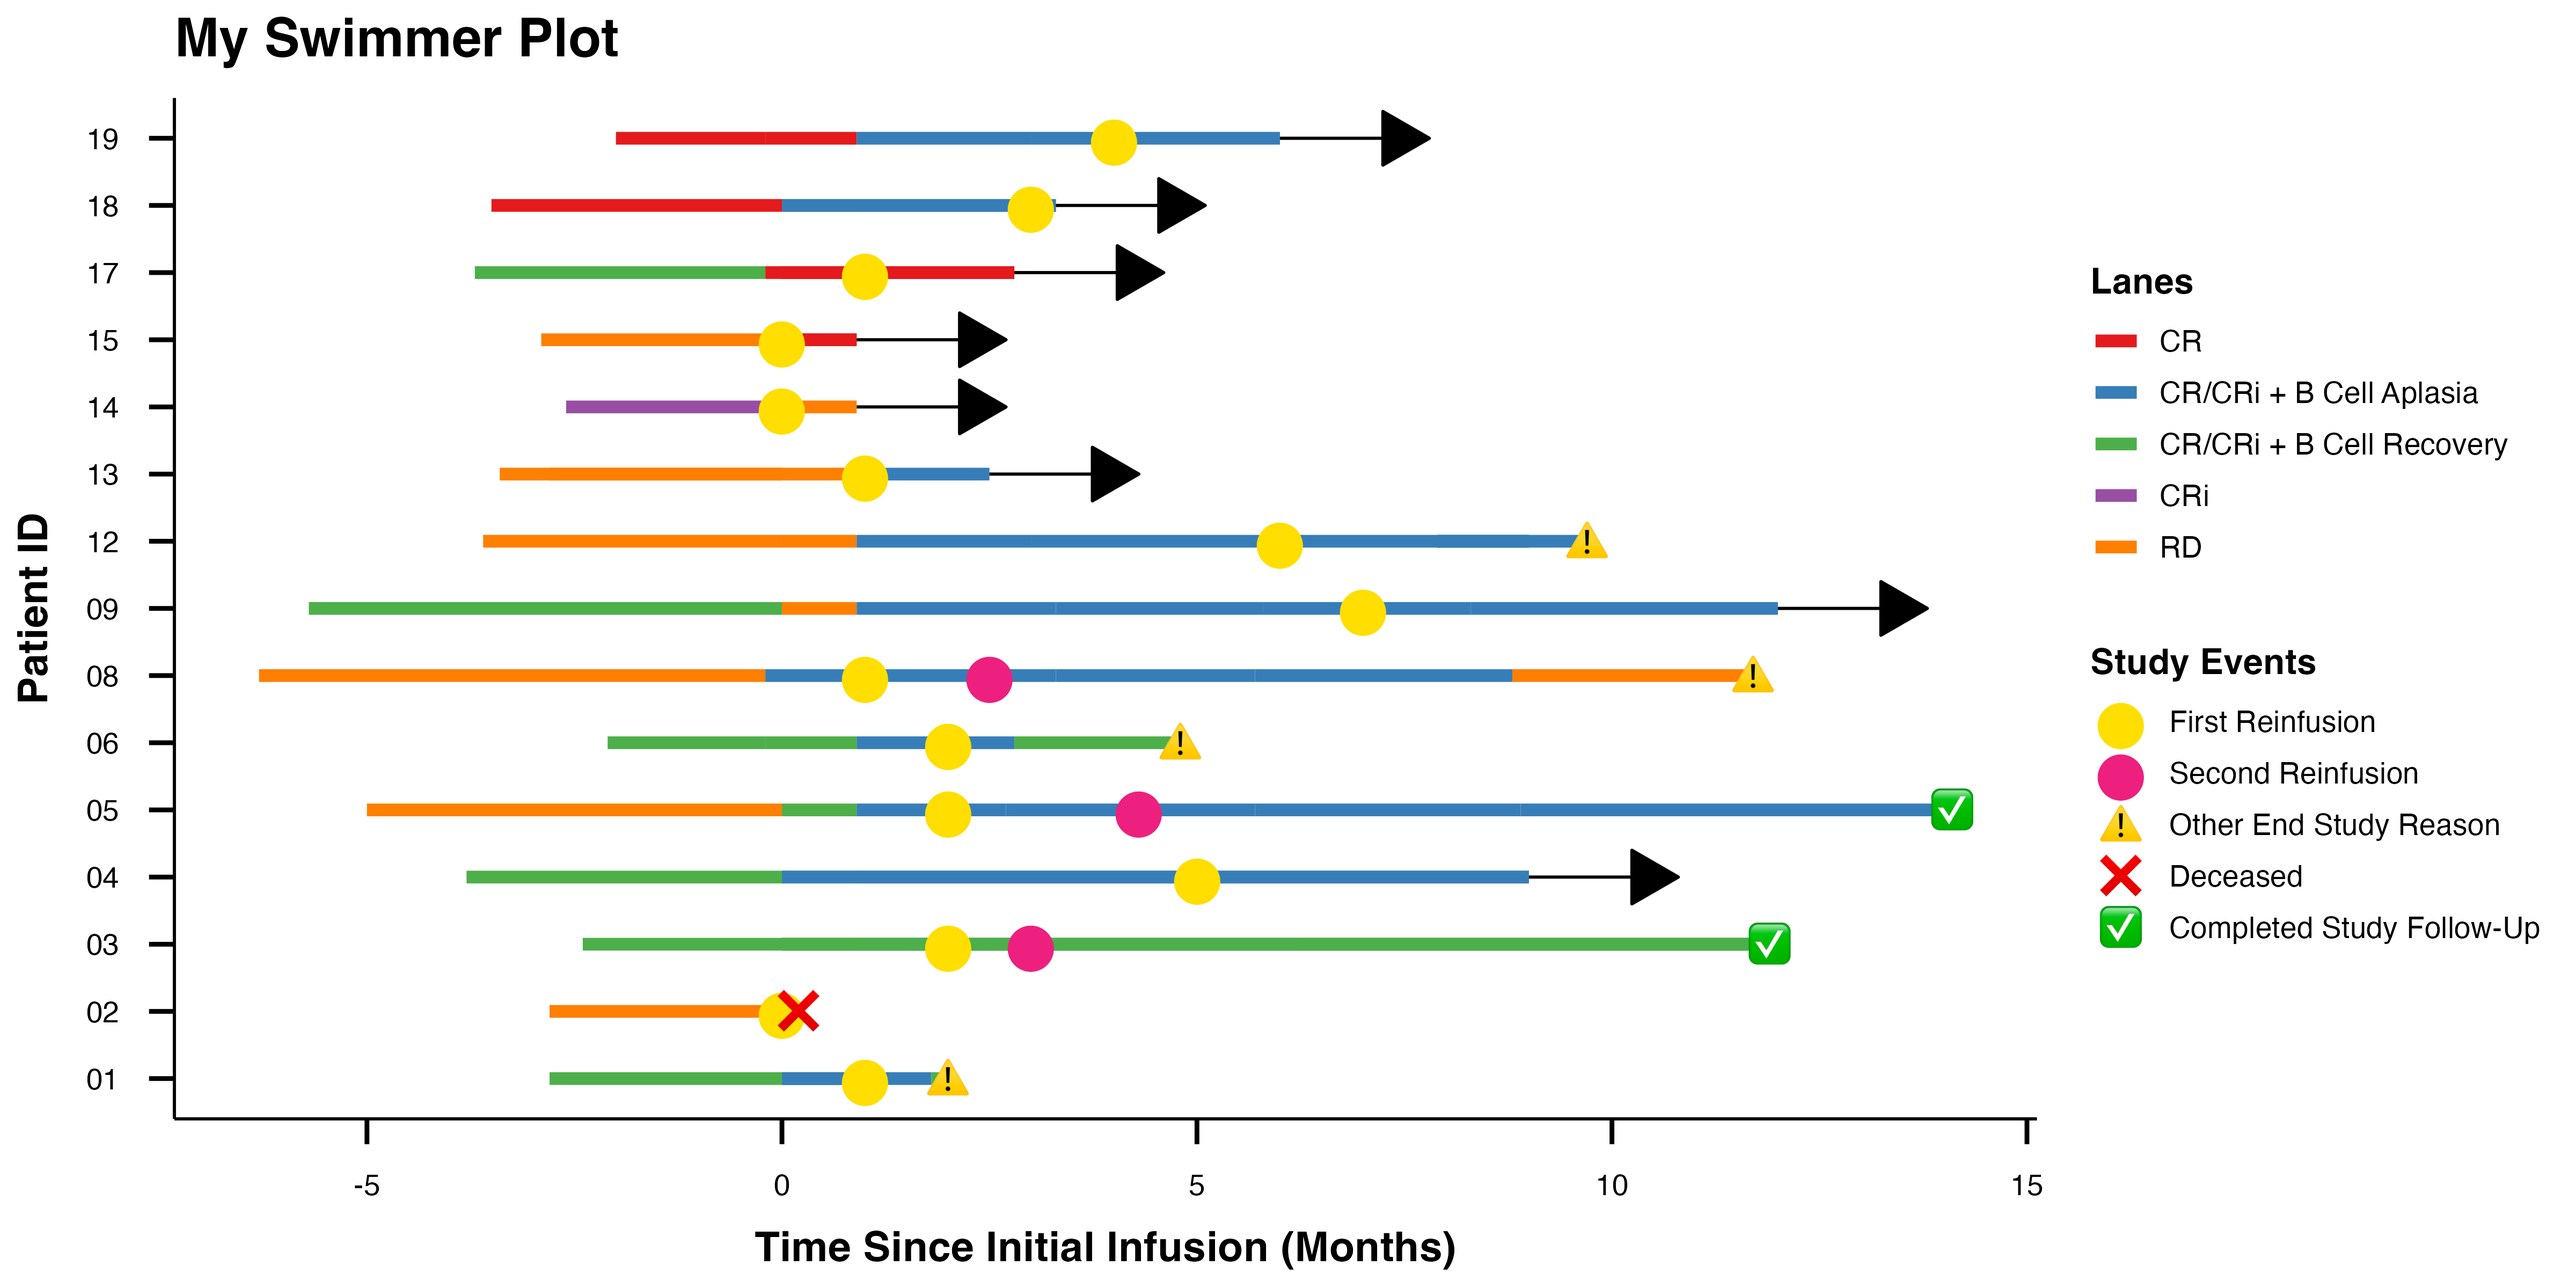
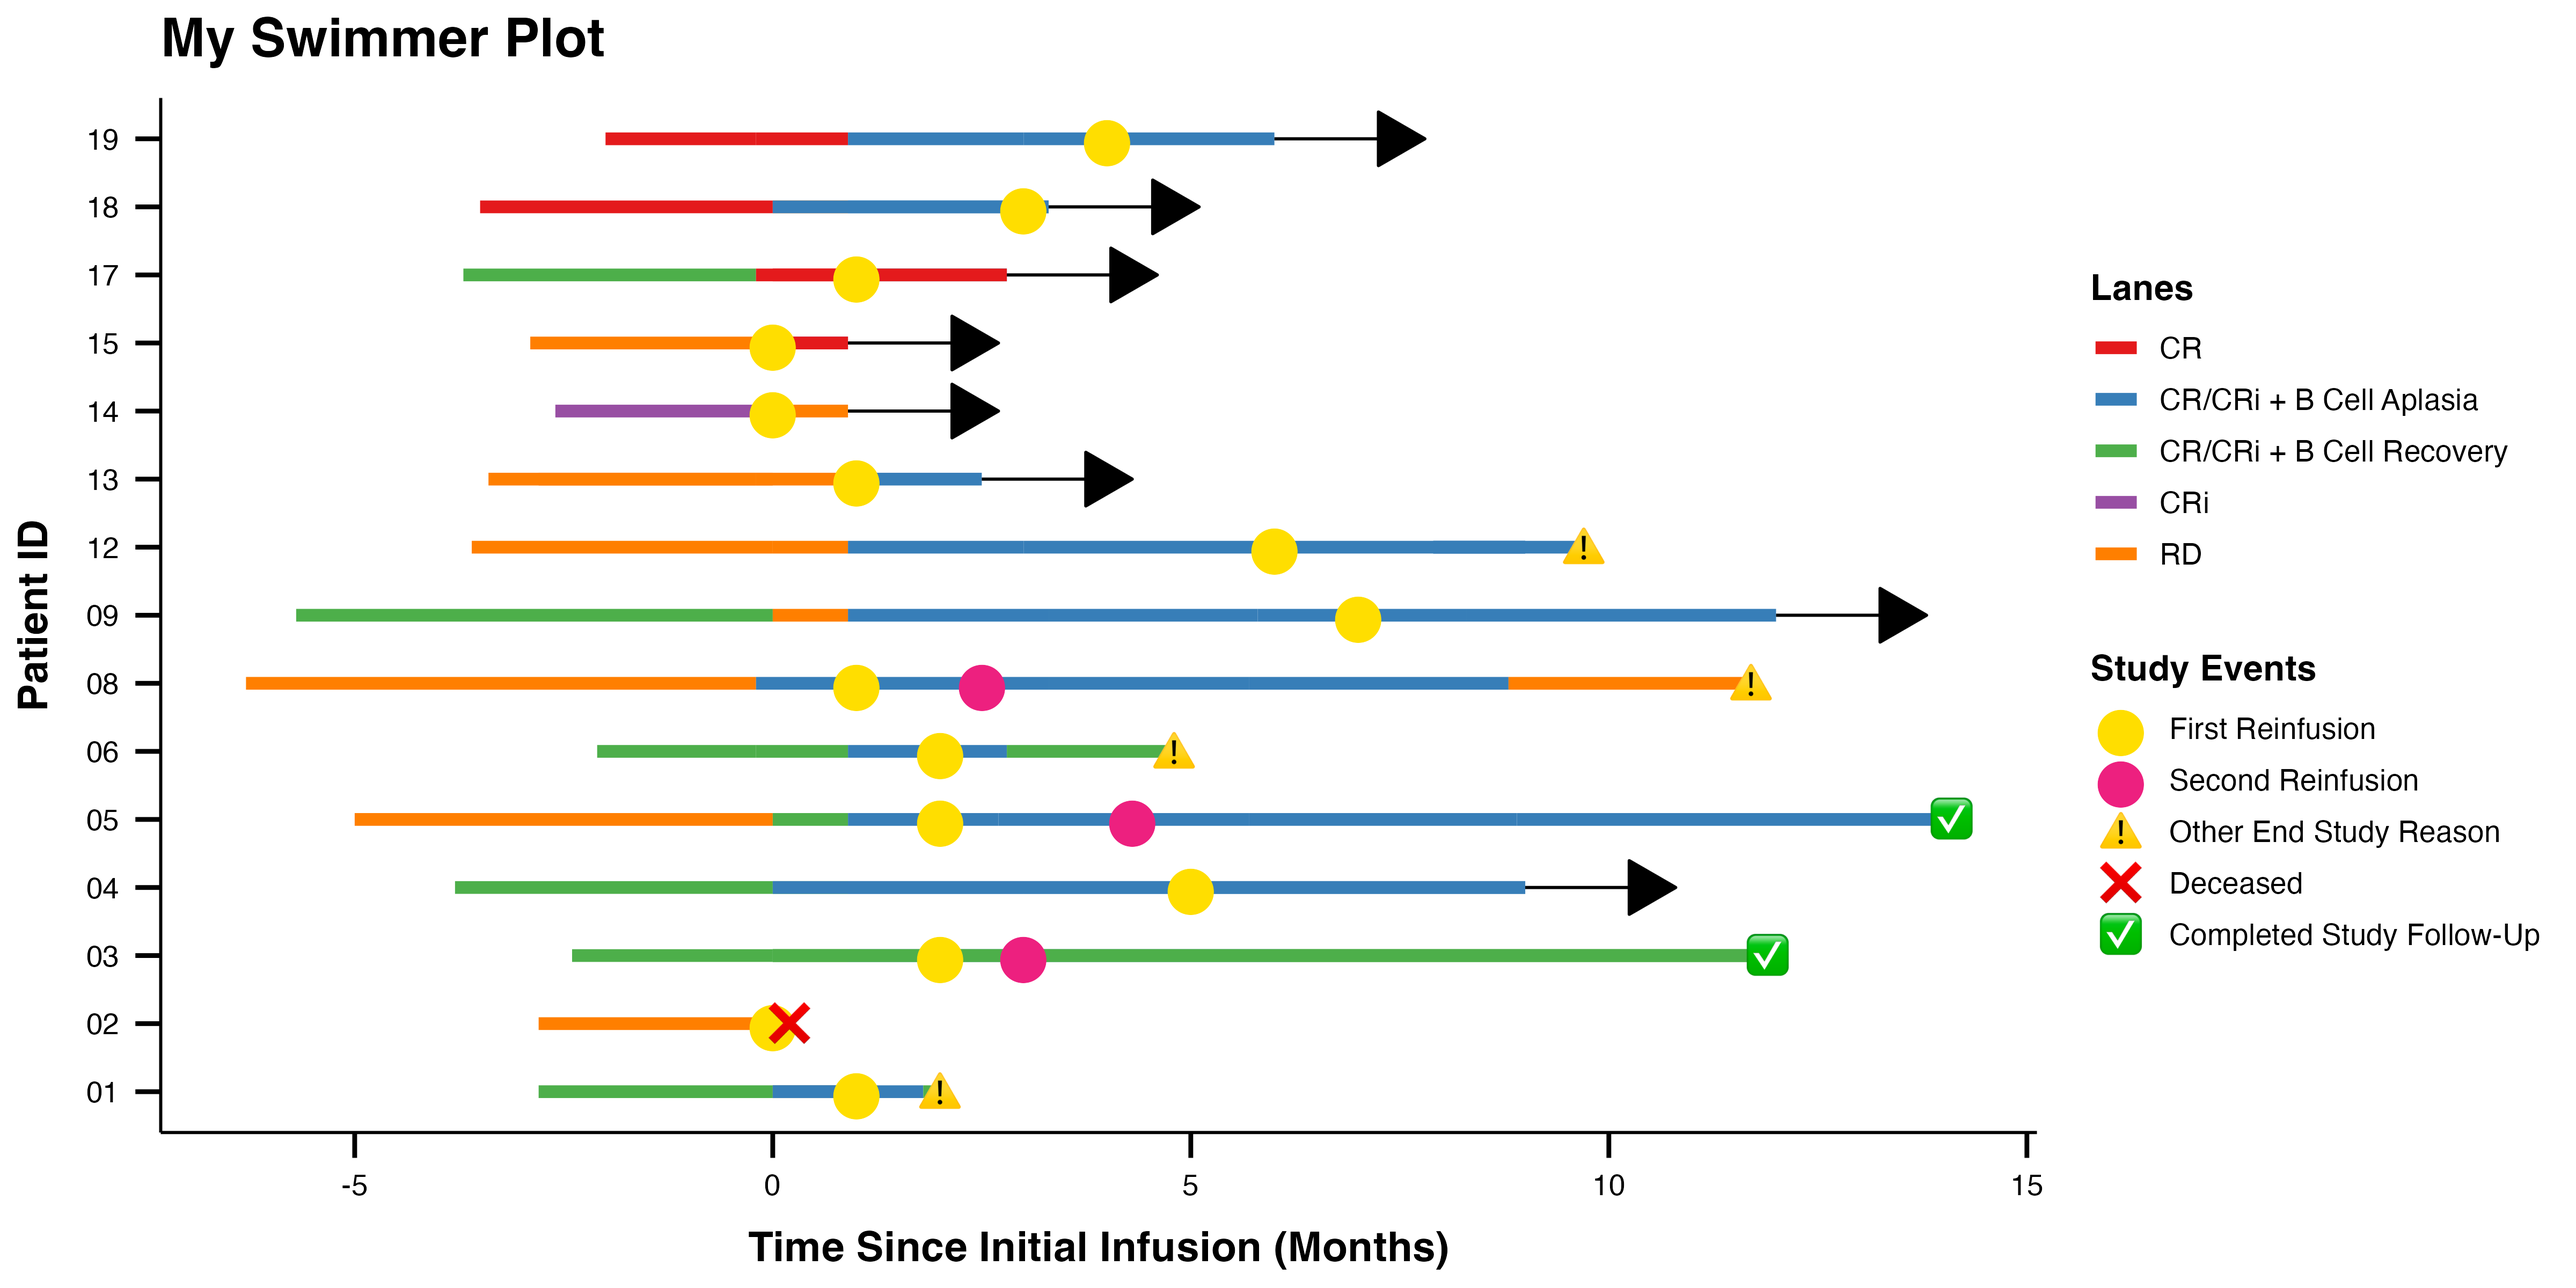
Article, README, and vignette updates

diff --git a/README.md b/README.md
@@ -12,10 +12,9 @@ experimental](https://img.shields.io/badge/lifecycle-experimental-orange.svg)](h
 coverage](https://codecov.io/gh/CHOP-CGTInformatics/ggswim/branch/main/graph/badge.svg)](https://app.codecov.io/gh/CHOP-CGTInformatics/ggswim?branch=main)
 <!-- badges: end -->
 
-The ggswim package provides a convenient set of commands to easily
-create swimmer plots. As an extension of ggplot2, it streamlines the
-process of generating legends that effectively communicate events of
-interest along subject response paths.
+ggswim helps you build swimmer plots with ggplot2-style layers. It
+streamlines the process of adding lanes, markers, arrows, and legends
+that communicate events of interest along subject response paths.
 
 ggswim solves some of the headaches associated with layer management in
 ggplot2 by organizing and classifying data into “markers” and “lanes.”
@@ -38,9 +37,9 @@ To help you get started, ggswim includes three sample datasets:
 de-identified datasets simulate real world data related to infusions,
 disease assessments, and study statuses for a clinical trial.
 
-ggswim offers several geom-functions, and by using `geom_swim_lane()` we
-can set up the horizontal response paths of our swimmer plot, i.e. the
-“lanes”. We’ll also set up corresponding arrows to indicate subjects
+ggswim offers several ggplot2-style layers. Using `geom_swim_lane()`, we
+can set up the horizontal response paths of our swimmer plot, or
+“lanes.” We’ll also set up corresponding arrows to indicate subjects
 that are still on the trial:
 
 ``` r
@@ -79,7 +78,7 @@ p <- patient_data |>
 p
 ```
 
-<img src="man/figures/README-unnamed-chunk-2-1.png" alt="Initial swimmer plot with lanes and arows." width="100%" />
+<img src="man/figures/README-unnamed-chunk-2-1.png" alt="Initial swimmer plot with lanes and arrows." width="100%" />
 
 Next we’ll add on events of interest: end of study updates and
 infusions. We’ll refer to these as “markers” and call them with the next
@@ -105,10 +104,9 @@ p
 
 <img src="man/figures/README-unnamed-chunk-3-1.png" alt="Updated swimmer plot with event markers." width="100%" />
 
-This looks OK as a default, but it’s not quite as nice as we’d like it
-to be. Let’s specify that we have particular `glyph`s and `colour`s we’d
-like to use in a certain order for the markers with ggswim’s
-`scale_marker_discrete()`.
+The default markers work, but explicit `glyph`s and `colour`s make the
+legend easier to read. We can set those marker values, and their display
+order, with `scale_marker_discrete()`.
 
 ``` r
 p <- p +
@@ -137,7 +135,18 @@ p +
   theme_ggswim()
 ```
 
-<img src="man/figures/README-unnamed-chunk-5-1.png" alt="Final swimmer plot with themeing." width="100%" />
+<img src="man/figures/README-unnamed-chunk-5-1.png" alt="Final swimmer plot with theming." width="100%" />
+
+## Where to go next
+
+Start with [Getting Started with
+ggswim](https://chop-cgtinformatics.github.io/ggswim/articles/ggswim.html)
+for a step-by-step introduction to lanes, markers, and marker scales.
+Read [Adding arrows to
+ggswim](https://chop-cgtinformatics.github.io/ggswim/articles/adding_arrows.html)
+when you need continuation indicators, and browse the
+[Gallery](https://chop-cgtinformatics.github.io/ggswim/articles/gallery.html)
+for glyph, icon, and theme examples.
 
 ## Collaboration
 
